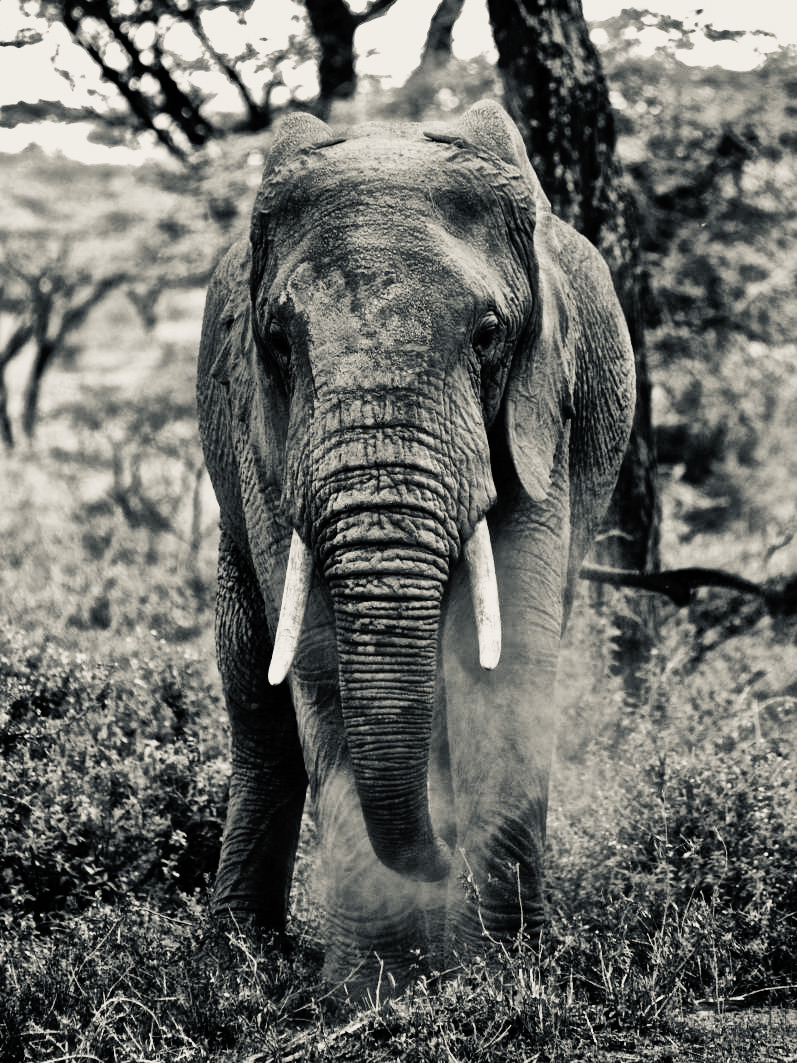
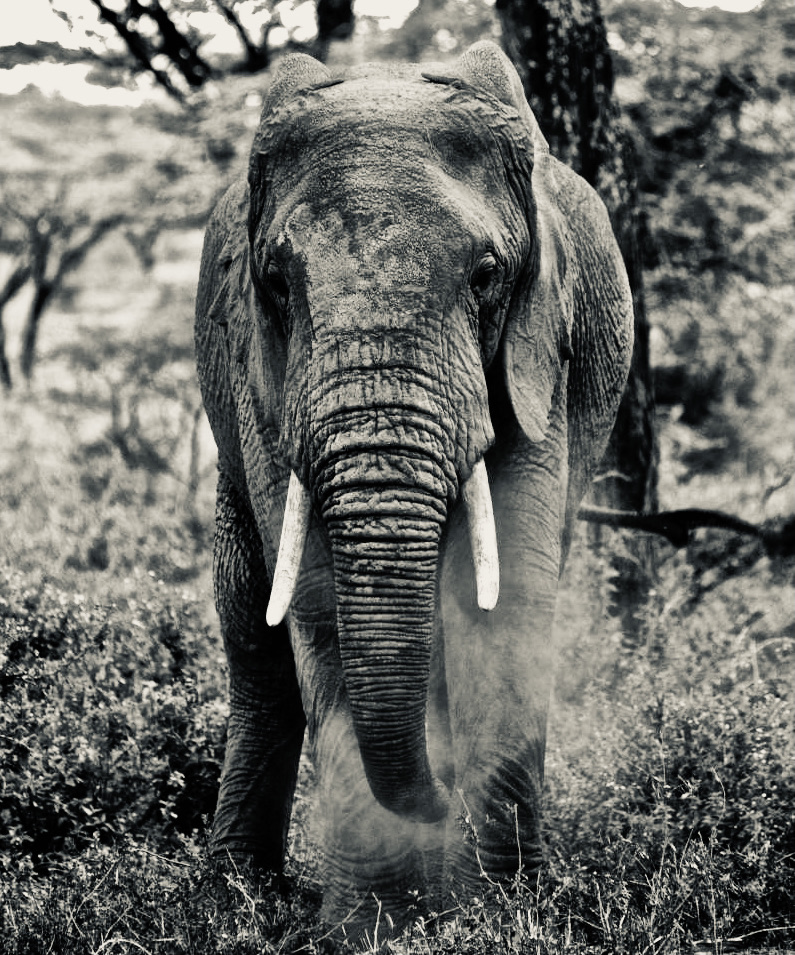
Style the menu and index page.

diff --git a/assets/css/style.css b/assets/css/style.css
@@ -491,11 +491,16 @@ footer ul {
 }
 
 .rightside li {
-    padding: 4px;
+    padding: 3px;
 }
 
 .leftside li {
-    padding: 4px;
+    padding: 3px;
+}
+
+#copyright {
+    font-size: 80%;
+    padding-top: 30px;
 }
 
 #desegundo-design {
@@ -559,6 +564,12 @@ footer ul {
        font-size: 60%
    }
 
+   #centered {
+
+    left: 15%;
+
+   }
+
    
    #header-menu {
     font-size: 100%;
@@ -583,6 +594,20 @@ footer ul {
     width: 80%;
     display: block;
 
+}
+
+#enter-image-2 {
+    margin-top: 3%;
+}
+
+#enter {
+    margin-top: 11%;
+    margin-bottom: 3%;
+}
+
+#title-over-photo {
+    margin-top: 5%;
+    margin-bottom: 3%;
 }
 
 .row {
@@ -670,22 +695,34 @@ footer ul {
 #leftside {
 
     
-    left: 8%
+    left: 7%
 
 }
 
 #middle {
 
     
-    left: 38.5%;
+    left: 40.5%;
 
 }
 
 #rightside {
 
     
-    right: 8%;
+    right: 7%;
 }
+    }
+
+    .middle li {
+        padding-bottom: 5px
+    }
+    
+    .rightside li {
+        padding: 4px;
+    }
+    
+    .leftside li {
+        padding: 4px;
     }
 
 /* Small devices ie phones (350px and down) */

diff --git a/index.html b/index.html
@@ -20,7 +20,7 @@
         </div>
         <div id="enter">
             <img id="enter-image" class="main-menu-image" src="assets/images/2-elephant-dust-cloud.jpg" alt="two elephants next to each other, one of them blowing out dust from trunk">
-            <img class="main-menu-image-2" srcset="assets/images/portrait-elephant.jpg" alt="a single, baby elephant blowing out dust from its trunk">
+            <img id="enter-image-2" class="main-menu-image-2" srcset="assets/images/portrait-elephant.jpg" alt="a single, baby elephant blowing out dust from its trunk">
         <a href="menu.html">
             <h1 id="enter-click">ENTER →</h1> 
         </a>

diff --git a/menu.html b/menu.html
@@ -50,7 +50,7 @@
                 <br>
                 <input type="submit" id="submit"> 
             </li>
-            <li>© Willem Platerink Photography 2008-2021</li>
+            <li id="copyright">© Willem Platerink Photography 2008-2021</li>
         </ul>
         <ul class="rightside">
             <li>

diff --git a/contact.html b/contact.html
@@ -68,7 +68,7 @@
             <br>
             <input type="submit" id="submit"> 
         </li>
-        <li>© Willem Platerink Photography 2008-2021</li>
+        <li id="copyright">© Willem Platerink Photography 2008-2021</li>
     </ul>
     <ul class="rightside">
         <li>

diff --git a/exhibitions.html b/exhibitions.html
@@ -77,7 +77,7 @@
             <br>
             <input type="submit" id="submit"> 
         </li>
-        <li>© Willem Platerink Photography 2008-2021</li>
+        <li id="copyright">© Willem Platerink Photography 2008-2021</li>
     </ul>
     <ul class="rightside">
         <li>

diff --git a/fine-art.html b/fine-art.html
@@ -55,7 +55,7 @@
             <br>
             <input type="submit" id="submit"> 
         </li>
-        <li>© Willem Platerink Photography 2008-2021</li>
+        <li id="copyright">© Willem Platerink Photography 2008-2021</li>
     </ul>
     <ul class="rightside">
         <li>

diff --git a/selected-works.html b/selected-works.html
@@ -79,7 +79,7 @@
             <br>
             <input type="submit" id="submit"> 
         </li>
-        <li>© Willem Platerink Photography 2008-2021</li>
+        <li id="copyright">© Willem Platerink Photography 2008-2021</li>
     </ul>
     <ul class="rightside">
         <li>
